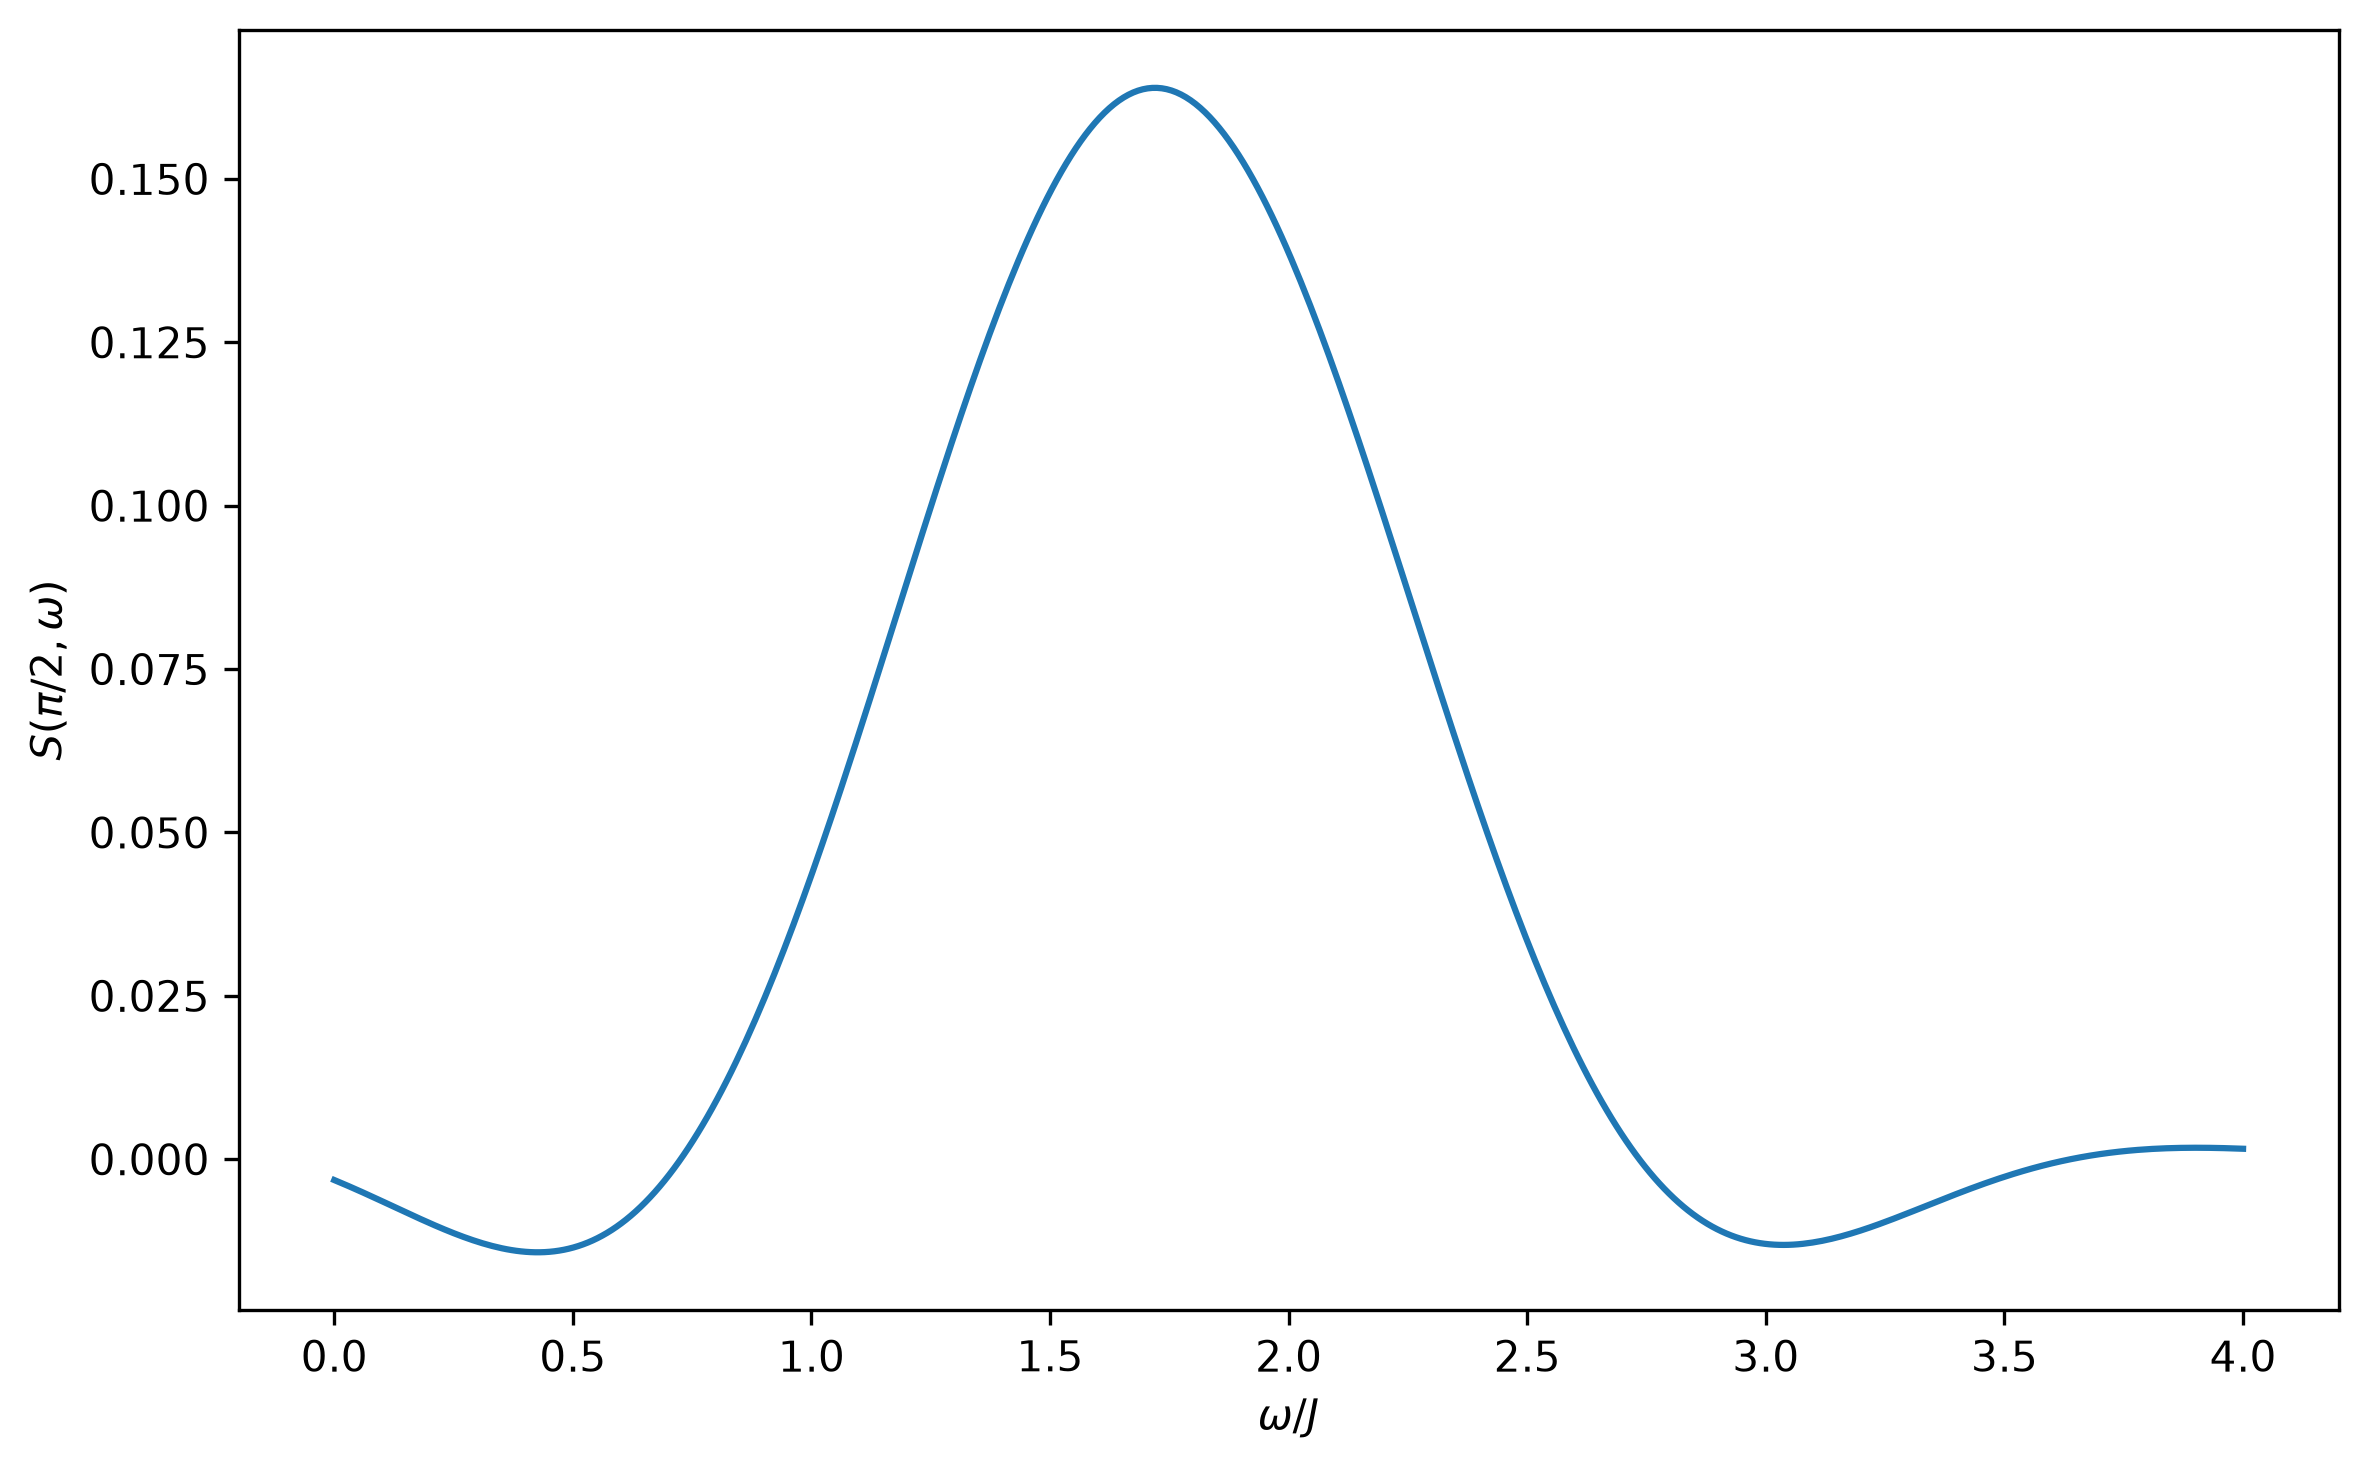
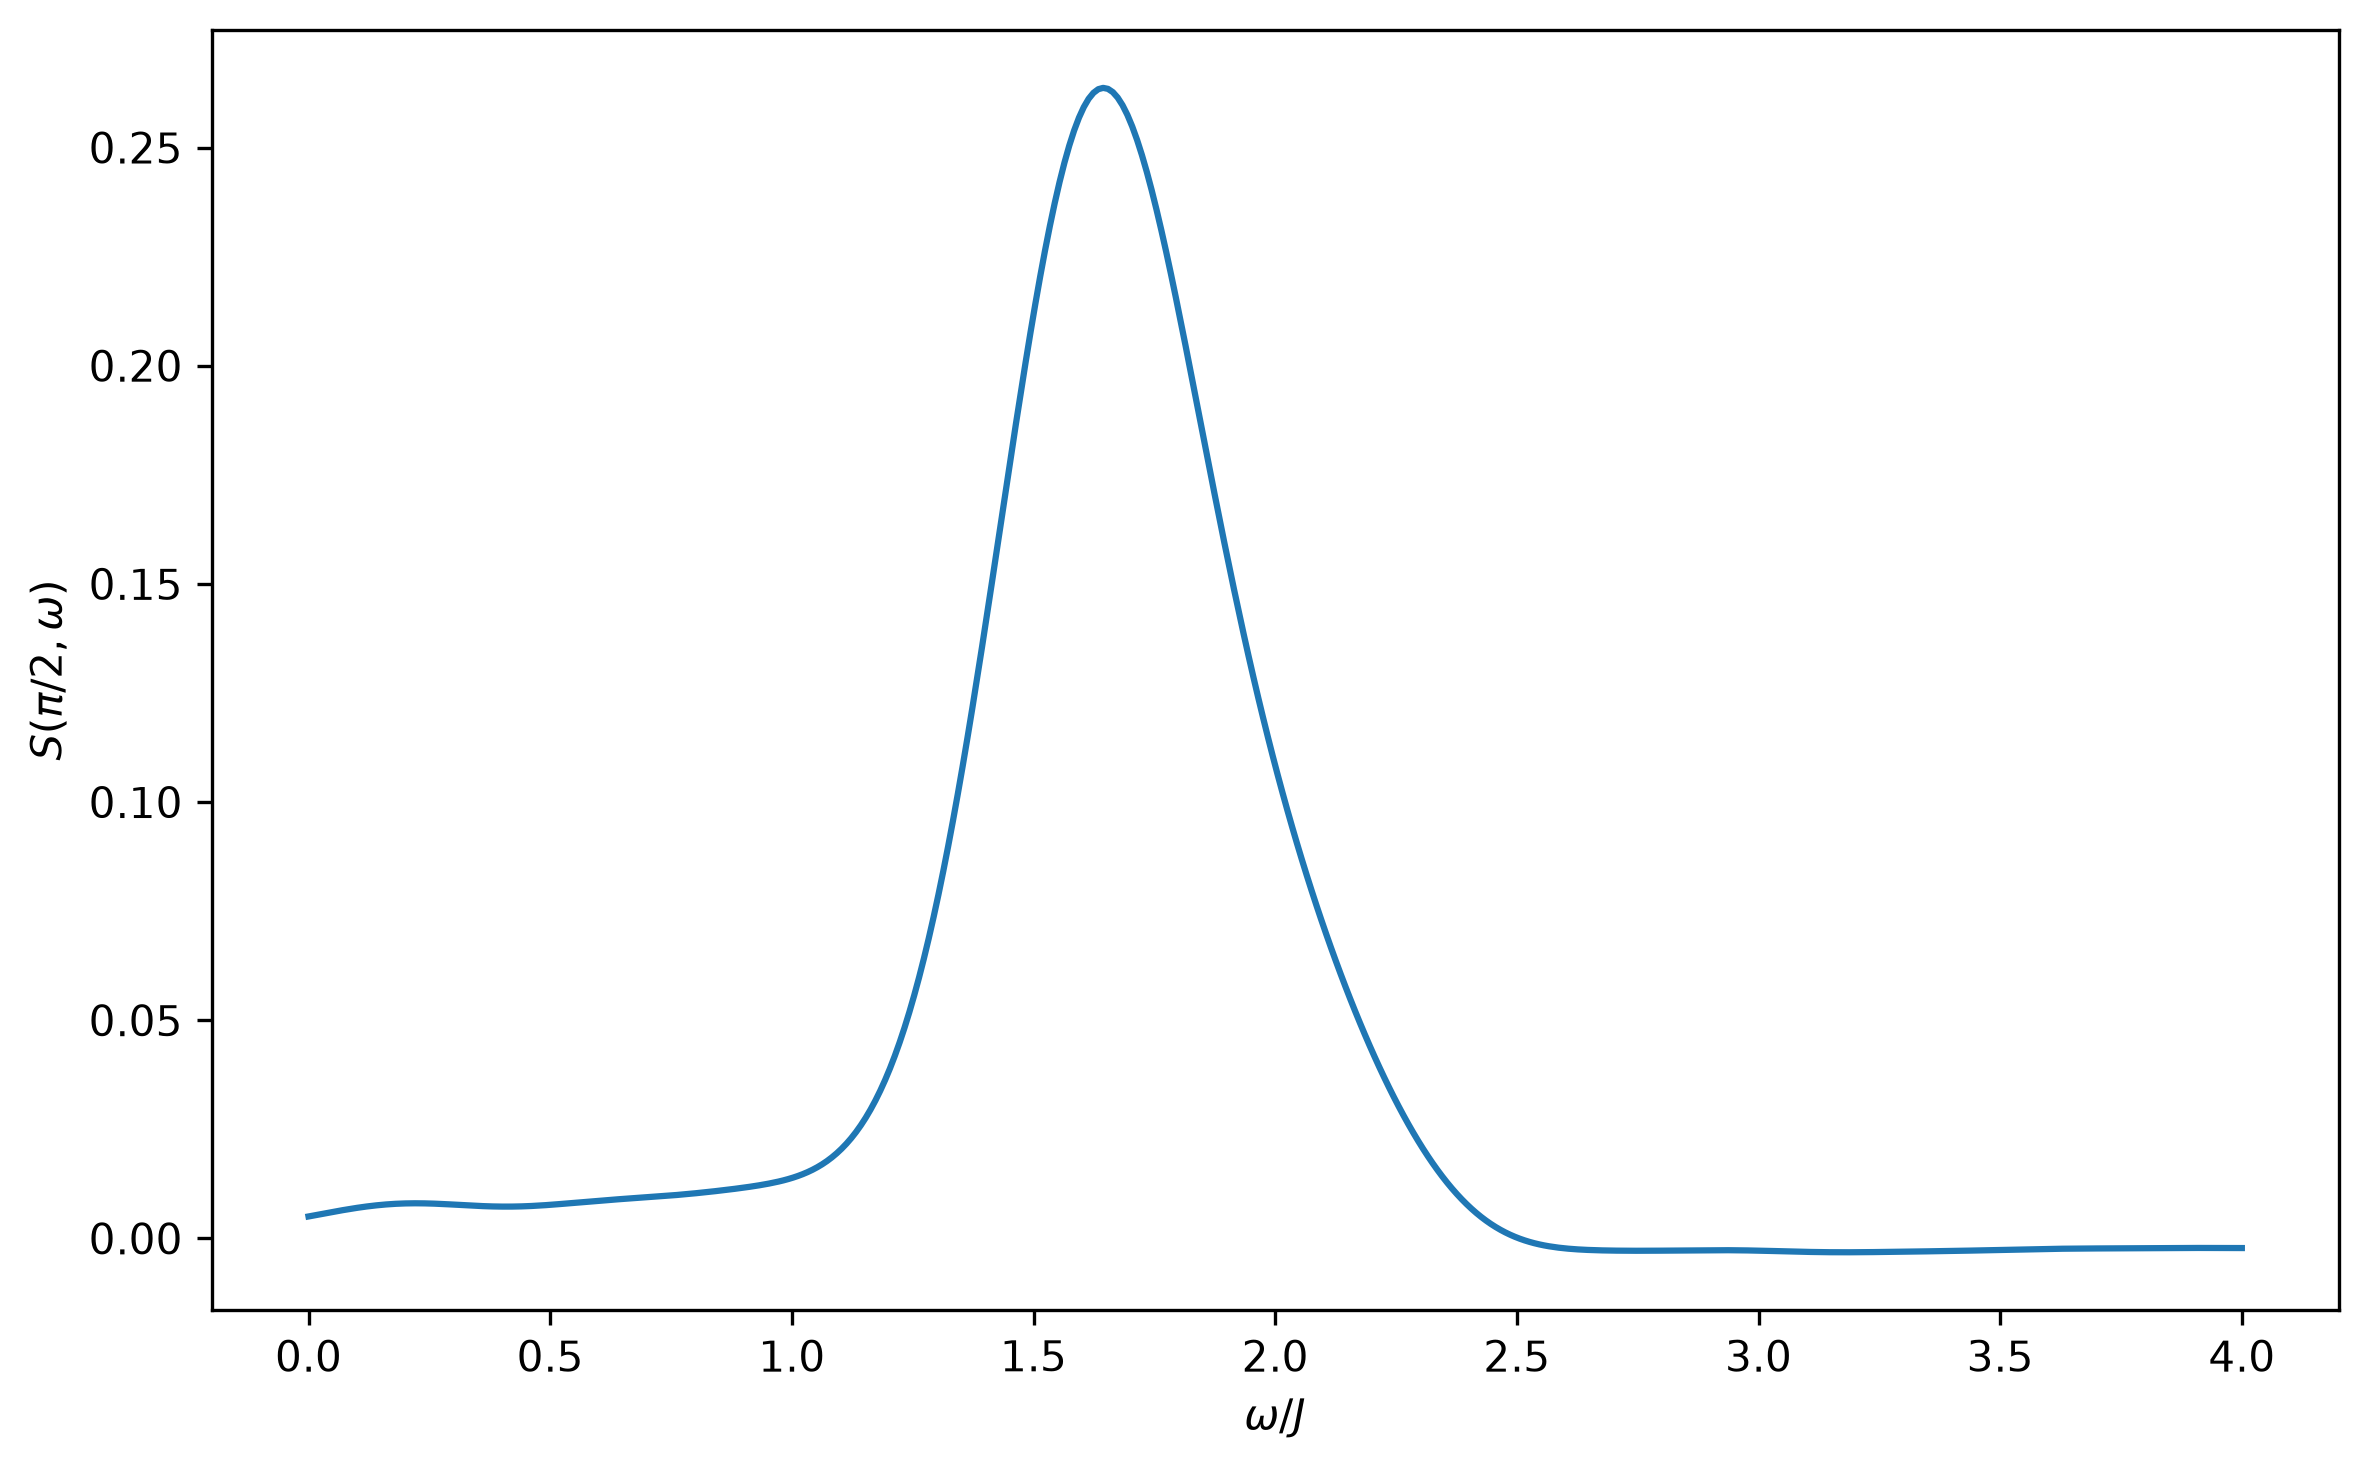
add G(r,t)

diff --git a/sqw_tebd.py b/sqw_tebd.py
@@ -74,7 +74,7 @@ for it in range(len(times)):
 np.savez("correlation.npz", G=G, times=times, E0=E0)
 
 
-
+import matplotlib.pyplot as plt
 
 # 保存した結果を読み込む、ここからフーリエ変換する
 data = np.load("correlation.npz")
@@ -82,23 +82,44 @@ G = data["G"]
 times = data["times"]
 E0 = float(data["E0"])
 
-# Spatial Fourier transformでG(q,t)を作る
-r = np.arange(L) - c    # G(r,t)に
-R = min(c, L - 1 - c)
-r_pos = r[c + 1 : c + R + 1]
-q_vals = np.linspace(0, np.pi, L)
+# G(r,t) のパワープロット（光円錐）
+r = np.arange(L) - c
+plt.figure(figsize=(8, 6))
+limit = np.max(np.abs(np.real(G)))
+from matplotlib.colors import TwoSlopeNorm
+plt.pcolormesh(
+    r,
+    times,
+    np.real(G).T,
+    shading="auto",
+    cmap="RdBu",
+    norm=TwoSlopeNorm(vmin=-limit, vcenter=0, vmax=limit)
+)
+plt.xlabel(r"$r=n-c$")
+plt.ylabel(r"$tJ$")
+plt.colorbar(label=r"$G(r,t)$")
+plt.xlim(-L // 2, L // 2)
+plt.tight_layout()
+plt.savefig("correlation_lightcone.png", dpi=300, bbox_inches="tight")
+plt.show()
 
+
+
+# Spatial Fourier transformでG(q,t)を作る
+r = np.arange(L) - c
+q_vals = np.linspace(0, 2 * np.pi, 2 * L + 1)
 Gqt = np.zeros((len(q_vals), len(times)), dtype=complex)
 for iq in range(len(q_vals)):
     q = q_vals[iq]
-    Gqt[iq, :] = (G[c, :]+ 2 * np.sum(np.cos(q * r_pos)[:, None] * G[c + 1 : c + R + 1, :],axis=0))
 
+    Gqt[iq, :] = np.sum(np.exp(-1j * q * r[:, None]) * G,axis=0)
 
 # Time Eourier transform
 dt_obs = dt 
+
 # Gaussian window
 sigma_t = t_max / 3
-window = np.exp(- (times**2 / (2 * sigma_t))**2)
+window = np.exp(-times**2 / (2 * sigma_t**2))
 Gqt_windowed = Gqt * window[None, :]
 
 omega_vals = np.linspace(0, 4, 400)
@@ -110,7 +131,7 @@ for iq in range(len(q_vals)):
 
         Sqw[iq, iw] = dt_obs / (2 * np.pi) * (Gqt_windowed[iq, 0] + 2 * np.real(np.sum(Gqt_windowed[iq, 1:]* np.exp(1j * omega * times[1:]))))
 
-import matplotlib.pyplot as plt
+
 iq = np.argmin(np.abs(q_vals - np.pi / 2))
 plt.figure(figsize=(8, 5))
 plt.plot(omega_vals, Sqw[iq, :])
@@ -122,13 +143,13 @@ plt.show()
 
 
 plt.figure(figsize=(8, 5))
-plt.pcolormesh(q_vals, omega_vals, Sqw.T, shading="auto", cmap="inferno")
+plt.pcolormesh(q_vals, omega_vals, Sqw.T, cmap="viridis", shading="auto")
 plt.xlabel(r"$q$")
 plt.ylabel(r"$\omega/J$")
 plt.colorbar(label=r"$S^{zz}(q,\omega)$")
-plt.xlim(0, np.pi)
+plt.xlim(0, 2*np.pi)
 plt.xticks([0, np.pi/2, np.pi], [r"$0$", r"${\pi}/{2}$", r"$\pi$"])
 plt.ylim(0, 4)
 plt.tight_layout()
-plt.savefig("sqw_tebd.png", dpi=300, bbox_inches="tight")
+plt.savefig("sqw_tebd_L64.png", dpi=300, bbox_inches="tight")
 plt.show()

diff --git a/sqw_ed.py b/sqw_ed.py
@@ -55,6 +55,7 @@ eta = 0.05
 S_q = np.zeros(len(q_values))
 S_qw = np.zeros((len(q_values), len(omega)))
 
+# 時間発展を追わず、各エネルギー固有状態への重なりからスペクトルを直接求める。ただしデルタ関数を Lorentzian で近似。
 for iq, q in enumerate(q_values):
 
     # S_q^z
@@ -77,6 +78,7 @@ for iq, q in enumerate(q_values):
 
     S_qw[iq] = sum(weight[m] * (eta / np.pi/ ((omega - omega_m[m])**2 + eta**2)) for m in range(len(E))) # Lorentzian近似
 
+
 plt.figure(figsize=(7, 5))
 plt.plot(q_values, S_q)
 plt.xlabel(r"$q$")
@@ -90,7 +92,7 @@ plt.savefig("sq_ed.png", dpi=300, bbox_inches="tight")
 plt.show()
 
 plt.figure(figsize=(7, 5))
-plt.pcolormesh(q_values, omega,S_qw.T, shading="auto")
+plt.pcolormesh(q_values, omega,S_qw.T, cmap="viridis",shading="auto")
 plt.xlabel(r"$q$")
 plt.ylabel(r"$\omega$")
 plt.colorbar(label=r"$S^{zz}(q,\omega)$")
